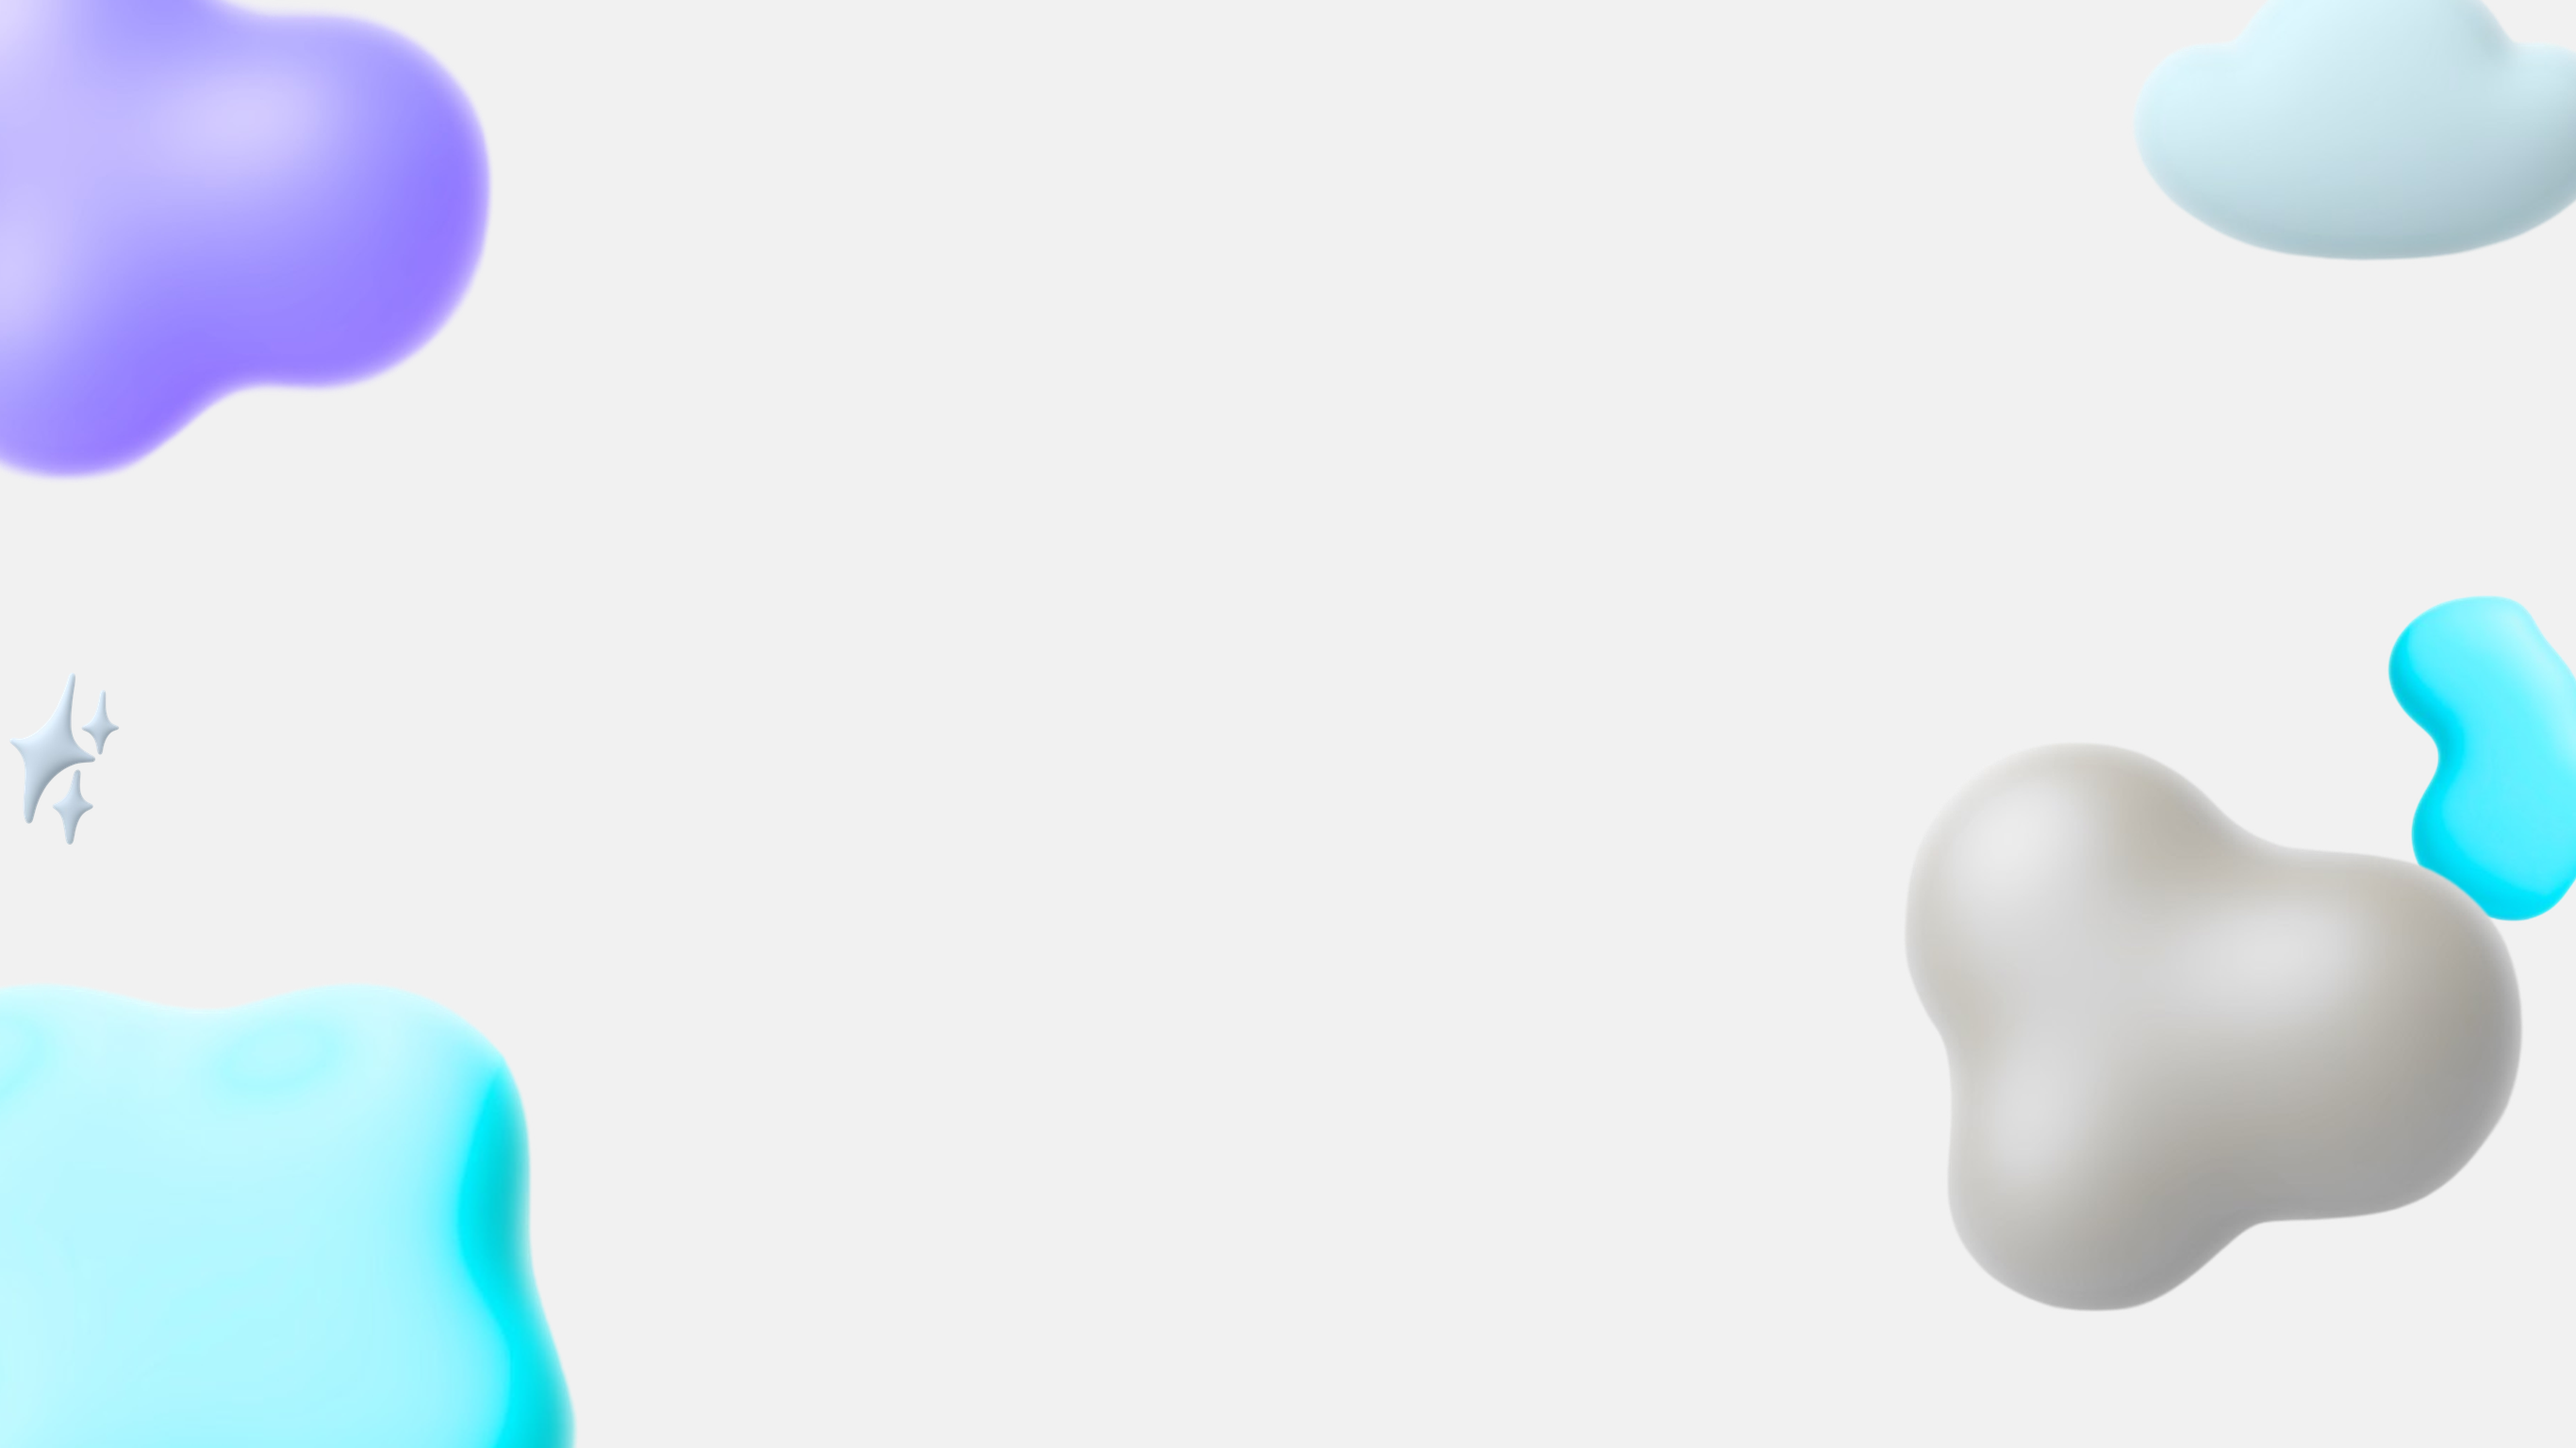
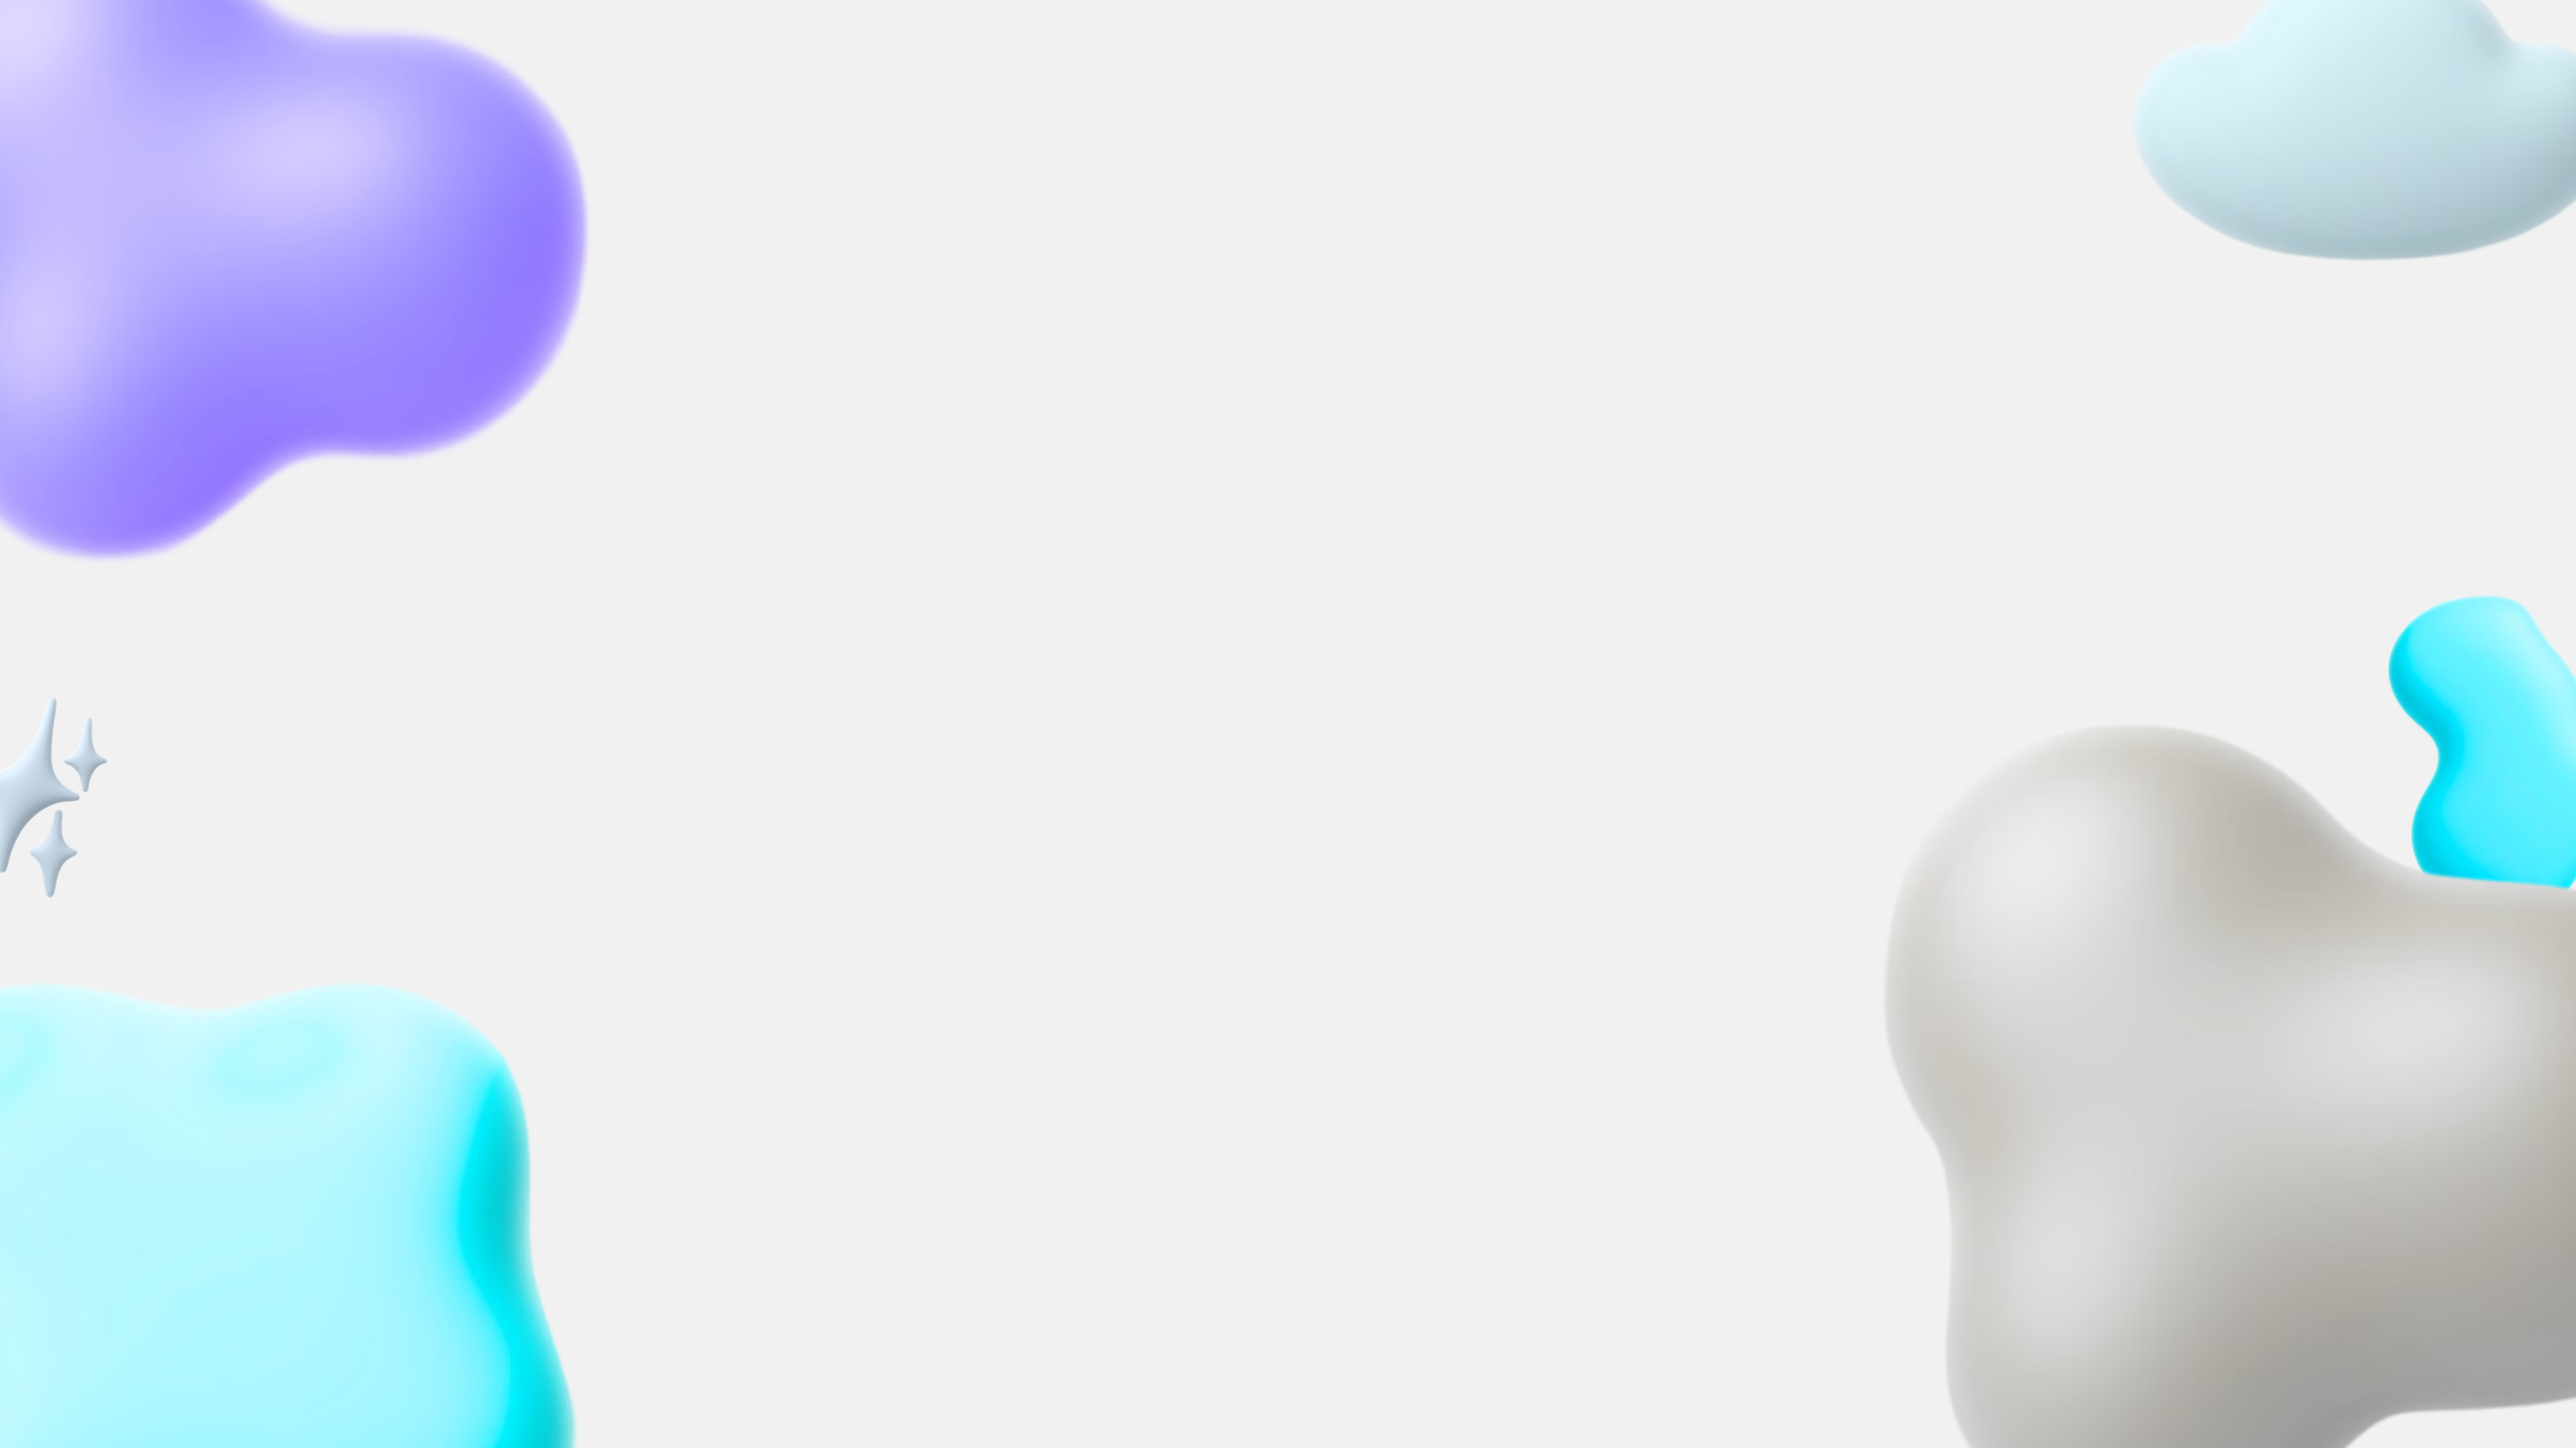
feat(pwa): fondo con gris grande en esquina, destellos recogidos y morada mayor

diff --git a/pwa/index.html b/pwa/index.html
@@ -66,7 +66,7 @@ input, select { width: 100%; padding: 13px 14px; margin: 6px 0; border: 1px soli
 .btn-mini.verde { background: var(--ok); }
 .volver { background: none; border: 0; color: var(--prim); font-weight: 700; font-size: 14px; margin-bottom: 8px; }
 /* Login redirección estilo app */
-.fondo-login { background: #f1f1f1 url(img/fondo-login.png?v=11) center top / cover no-repeat; min-height: 100dvh; }
+.fondo-login { background: #f1f1f1 url(img/fondo-login.png?v=12) center top / cover no-repeat; min-height: 100dvh; }
 .login-stage { position: relative; width: 100%; max-width: 1366px; margin: 0 auto; min-height: 100dvh; overflow: hidden; }
 .login-wrap { width: 100%; max-width: 505px; margin: 0 auto; padding: clamp(24px, 6vh, 56px) 0 40px; text-align: center; position: relative; z-index: 2; }
 /* Formas decorativas superpuestas (posiciones de la referencia) */

diff --git a/pwa/sw.js b/pwa/sw.js
@@ -1,7 +1,7 @@
 /* Service Worker: CSS dentro del HTML; fondo compuesto + shell offline, API a red, HTML fresco. */
-const CACHE = "kapta-pwa-v11";
+const CACHE = "kapta-pwa-v12";
 const SHELL = ["./app.js?v=11", "./manifest.webmanifest", "./img/logo-slogan.png?v=9",
-  "./img/fondo-login.png?v=11",
+  "./img/fondo-login.png?v=12",
   "./img/flags/colombia.png?v=10", "./img/flags/mexico.png?v=10", "./img/flags/peru.png?v=10",
   "./img/flags/chile.png?v=10", "./img/flags/argentina.png?v=10", "./img/flags/ecuador.png?v=10",
   "./img/formas/blanca.png?v=10",
